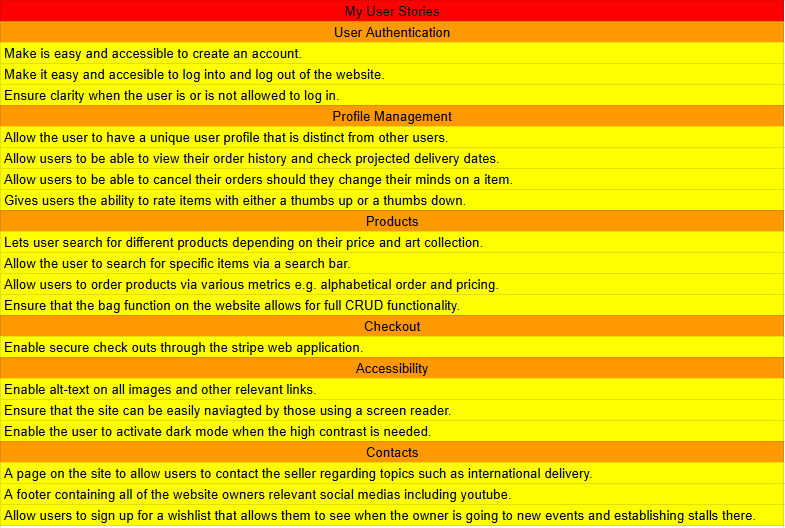
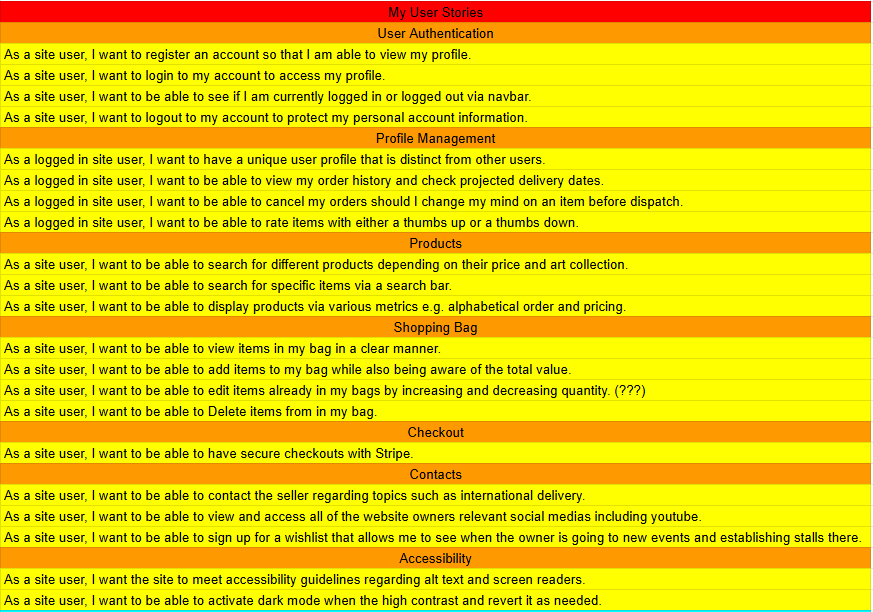
Will update the readme to include more images and descriptions.

diff --git a/README.md b/README.md
@@ -1,6 +1,6 @@
 # Gamedream - A portfolio project.
 
-Welcome to my code institute website readme. This is for my milestone 3 project. For this, I have decided to create a game wishlisting service to allow for storing games and then wishlisting them; complete with their prices, name and description. I have done this because the goal for this project was to create a python website which was able to utilize either a relational database or a non-relational database in order to provide CRUD functionality to a user through relating at least 2 tables in said database.
+Welcome to my code institute website readme. This is for my milestone 4 project. For this I have decided to create a website for my mothers textile business revolving around the sale of her textile art and cards alongside various kits used to create them. I have done this by creating a django framework powered by a sqlite database and the web application stripe designed to provide secure payments. This was done because the project goal was to create an effective ecommerce website.
 
 !["The first thing users see when loading the site"](read_me/home_page.png)
 
@@ -32,26 +32,53 @@ Welcome to my code institute website readme. This is for my milestone 3 project.
 
 !["The user stories for my project"](read_me/user_stories.png)
 
+The above image displays the user stories that I will be using for my project.
+
 ### Wireframe
 
 These are the wireframes I created to help me plan out the design of my website. The designs were not final but there were a massive help in creating the project.
 
+Needed Wireframes
+
+1. Home Screen
+2. Product Selector
+3. Product Details
+4. Shopping bag
+5. Billing details
+6. Order Confirmation
+7. Account Creation
+8. Login
+9. User Profile
+10. Order History
+11. Contact
+12. Wishlist confirmation.
+
+
 
 ### Color Scheme
 
-![This was the palette I chose to use for my site.]()
+![This was the palette I chose to use for my site.](read_me/color_palette.png)
+
+The above color scheme was rather simple to create. My mother had suggested using 3 colors initially(Dun, Nyanza Green and Non-Photo Blue). Using those as a base, I then utilized 
 
 ### Typography
 
-![This was the font I chose to use for my site.]()
+![This was the font I chose to use for my site.](read_me/typography.png)
+
+When picking out an appropriate font for the website I wanted to avoid something like new times roman while also ensuring that it was still clear and easily read on smaller phone devices. To achieve that middle ground I settled upon using Overpass for my font of choice.
 
 ### Database
 
-The below database model shows the relationships between all of the models in my database and their relationships.
+The below database model shows the relationships between all of the models in my database and their relationships. The database features for handling account logins are handled by allauth rather than my own personal code.
 
 | Key      | Value Type |  Description    |
 | :---        |    :----:   |          ---: |
 | ID   | Text        | Lorem Ipsum     |
+
+Databases Needed
+
+1. Products
+
 
 # Features #
 
@@ -59,7 +86,7 @@ The below database model shows the relationships between all of the models in my
 
 ## Page Testing
 
-## Jquery
+## User Stories Testing
 
 ## Validator Testing
 
